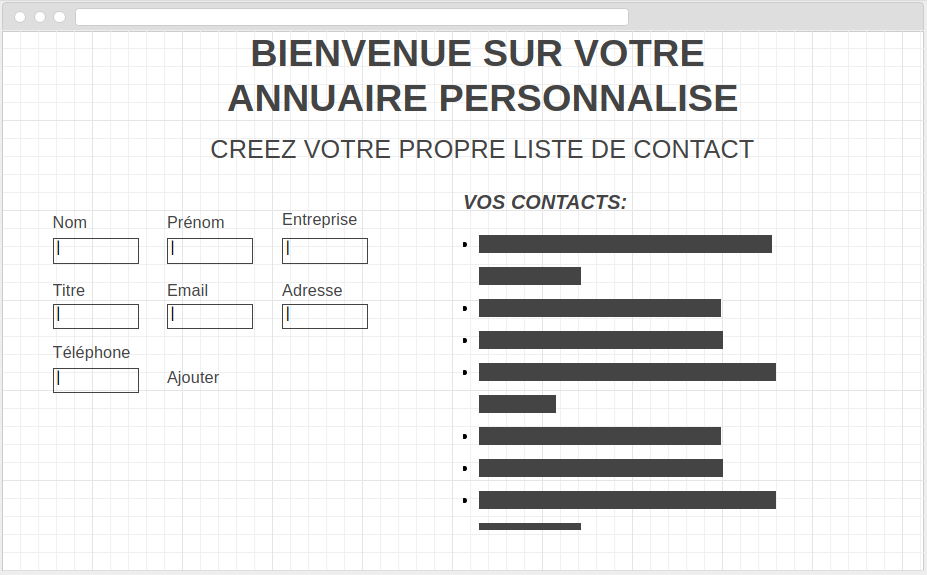
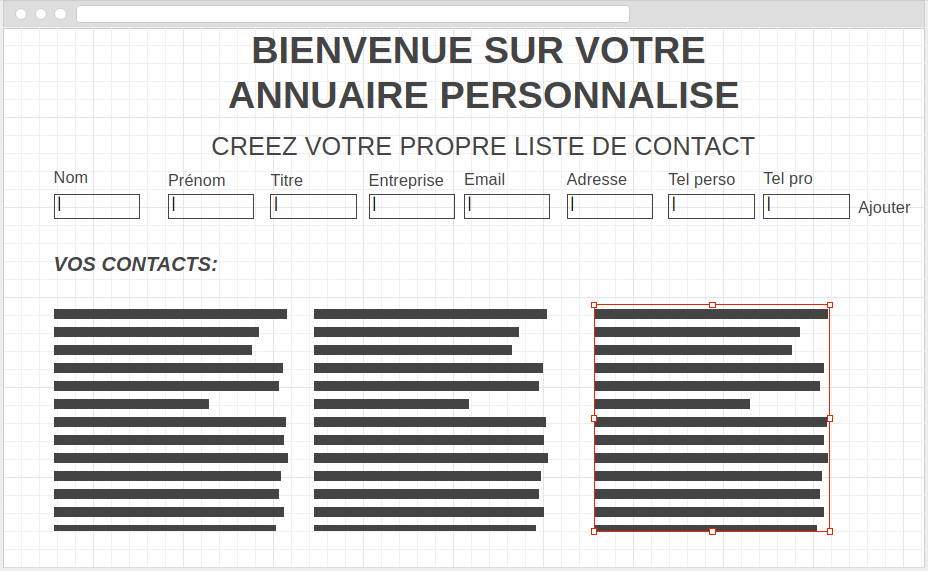
front & back & css done. todo: edit method in front

diff --git a/src/components/Contacts.js b/src/components/Contacts.js
@@ -1,0 +1,39 @@
+import React, { Component } from 'react';
+import Form from './Form';
+import DeleteButton from './DeleteButton';
+
+class Contacts extends Component {
+
+  render() {
+    return (
+      <div className="container-fluid d-flex flex-column">
+        {/* formulaire */}
+        <div className="formulaire col-md-6">
+          <Form />
+        </div>
+        {/* contacts */}
+        <div className="container-fluid">
+          <h2>VOS CONTACTS:</h2>
+          <ul className="d-flex flex-wrap">
+            {this.props.displayContacts.map((contact, index) =>
+              <li key={index} className="col-md-2 d-flex flex-column justify-content-around align-items-baseline">
+                <p><span className="infos text-secondary">Nom:</span> {contact.nom}</p>
+                <p><span className="infos text-secondary">Prénom:</span> {contact.prenom}</p>
+                <p><span className="infos text-secondary">Poste:</span> {contact.titre}</p>
+                <p><span className="infos text-secondary">Entreprise:</span> {contact.entreprise}</p>
+                <p><span className="infos text-secondary">Email:</span> {contact.email}</p>
+                <p><span className="infos text-secondary">Adresse:</span> {contact.adresse}</p>
+                {contact.telephone.work && <p><span className="infos text-secondary">Contact pro:</span> {contact.telephone.work}</p>}
+                {contact.telephone.mobile && <p><span className="infos text-secondary">Contact perso:</span> {contact.telephone.mobile}</p>}
+                <DeleteButton id={contact._id}/>
+              </li>
+            )}
+          </ul>
+        </div>
+      </div>
+    );
+  }
+
+}
+
+export default Contacts;

diff --git a/src/App.js b/src/App.js
@@ -1,18 +1,36 @@
 import React, { Component } from 'react';
-import logo from './logo.svg';
 import './App.css';
+import request from 'request';
+import Contacts from './components/Contacts';
 
 class App extends Component {
+state = {
+  contacts: [],
+}
+
+componentDidMount() {
+  request('http://localhost:3005/', (err, res, body) => {
+    if (err) return console.log(err)
+    if (body) {
+      this.setState({
+        contacts: JSON.parse(body)
+      });
+    }
+  })
+}
+
   render() {
     return (
-      <div className="App">
-        <header className="App-header">
-          <img src={logo} className="App-logo" alt="logo" />
-          <h1 className="App-title">Welcome to React</h1>
-        </header>
-        <p className="App-intro">
-          To get started, edit <code>src/App.js</code> and save to reload.
-        </p>
+      <div className="container-fluid bg-dark">
+        {/* header */}
+        <div className="header text-center">
+          <h1>BIENVENUE SUR VOTRE ANNUAIRE PERSONNALISE</h1>
+          <h2>Créez votre propre liste de contacts</h2>
+        </div>
+        {/* contacts */}
+        <div className="contacts">
+          <Contacts displayContacts={this.state.contacts} />
+        </div>
       </div>
     );
   }

diff --git a/src/components/Form.js b/src/components/Form.js
@@ -1,0 +1,25 @@
+import React, { Component } from 'react';
+
+class Form extends Component {
+
+  render() {
+    return (
+      <div>
+        <form action="http://localhost:3005/add" method="POST" className="d-flex col-md-8">
+          <input className="col-md-4 form-control" name="nom" placeholder="Nom"/>
+          <input className="col-md-4 form-control" name="prenom" placeholder="Prénom"/>
+          <input className="col-md-4 form-control" name="titre" placeholder="Poste"/>
+          <input className="col-md-4 form-control" name="entreprise" placeholder="Entreprise"/>
+          <input className="col-md-4 form-control" name="email" placeholder="Adresse mail"/>
+          <input className="col-md-4 form-control" name="adresse" placeholder="Adresse"/>
+          <input className="col-md-4 form-control" name="telephone.mobile" placeholder="Contact Perso"/>
+          <input className="col-md-4 form-control" name="telephone.work" placeholder="Contact Pro"/>
+          <button type="submit" className="btn btn-secondary">Ajouter</button>
+        </form>
+      </div>
+    );
+  }
+
+}
+
+export default Form;

diff --git a/server/routes/routes.js b/server/routes/routes.js
@@ -7,10 +7,10 @@ const router = express.Router();
 router.post('/add', (req, res) => {
   const newContact = new Contact(req.body);
 
-  newContact.save((err, contact) => {
+  newContact.save((err) => {
     if (err) res.send(err)
-    res.json({message: `${contact.nom} à bien été crée`})
   })
+  res.redirect('http://localhost:3000/')
 })
 
 // #GET method
@@ -39,10 +39,10 @@ router.post('/:id/update', (req, res) => {
 
 // #DELETE method
 router.get('/:id/delete', (req, res) => {
-  Contact.findByIdAndRemove(req.params.id, (err, contact) => {
+  Contact.findByIdAndRemove(req.params.id, (err) => {
     if (err) res.send(err)
-    res.json({message: 'le contact à bien été supprimé'})
   })
+  res.redirect('http://localhost:3000/')
 })
 
 module.exports = router;

diff --git a/src/App.css b/src/App.css
@@ -1,28 +1,21 @@
-.App {
-  text-align: center;
+body {
+  color: #fff;
 }
 
-.App-logo {
-  animation: App-logo-spin infinite 20s linear;
-  height: 80px;
+input {
+  margin: 10px;
 }
 
-.App-header {
-  background-color: #222;
-  height: 150px;
-  padding: 20px;
-  color: white;
+button:hover {
+  cursor: pointer;
 }
 
-.App-title {
-  font-size: 1.5em;
+li {
+  margin: 10px;
+  list-style-type: none;
 }
 
-.App-intro {
-  font-size: large;
-}
-
-@keyframes App-logo-spin {
-  from { transform: rotate(0deg); }
-  to { transform: rotate(360deg); }
+.infos {
+  font-weight: bold;
+  font-size: 18px;
 }

diff --git a/public/index.html b/public/index.html
@@ -8,6 +8,8 @@
       manifest.json provides metadata used when your web app is added to the
       homescreen on Android. See https://developers.google.com/web/fundamentals/engage-and-retain/web-app-manifest/
     -->
+    <!-- Boostrap CDN -->
+    <link rel="stylesheet" href="https://maxcdn.bootstrapcdn.com/bootstrap/4.0.0-beta.2/css/bootstrap.min.css" integrity="sha384-PsH8R72JQ3SOdhVi3uxftmaW6Vc51MKb0q5P2rRUpPvrszuE4W1povHYgTpBfshb" crossorigin="anonymous">
     <link rel="manifest" href="%PUBLIC_URL%/manifest.json">
     <link rel="shortcut icon" href="%PUBLIC_URL%/favicon.ico">
     <!--

diff --git a/server/server.js b/server/server.js
@@ -1,16 +1,16 @@
-const express = require('express');
+const express  = require('express');
 const mongoose = require('mongoose');
-
-const config = require('./config/config');
-const router = require('./routes/routes');
+const cors     = require('cors');
+const config   = require('./config/config');
+const router   = require('./routes/routes');
 
 mongoose.connect(config.mongoUrl, () => {
   console.log('DB initalized...');
 })
 
 const app = express();
-
 app.use(express.urlencoded({ extended: false }));
+app.use(cors());
 app.use(router);
 
 app.listen(config.port, () => {

diff --git a/src/components/DeleteButton.js b/src/components/DeleteButton.js
@@ -1,0 +1,17 @@
+import React, { Component } from 'react';
+
+class DeleteButton extends Component {
+
+  render() {
+    return (
+      <div>
+        <form action={`http://localhost:3005/${this.props.id}/delete`} method="GET">
+          <button type="submit" className="btn btn-danger">Supprimer</button>
+        </form>
+      </div>
+    );
+  }
+
+}
+
+export default DeleteButton;

diff --git a/server/model/Contact.js b/server/model/Contact.js
@@ -8,8 +8,8 @@ const ContactSchema = new mongoose.Schema({
   email:      {type: String, required: true},
   adresse:    {type: String, required: true},
   telephone:  {
-    mobile:   {type: Number, required: false},
-    work:     {type: Number, required: false},
+    mobile:   {type: String, required: false},
+    work:     {type: String, required: false},
   },
 })
 
